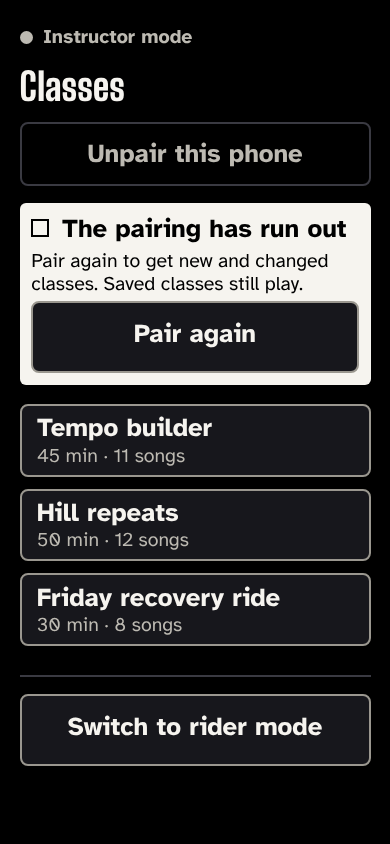
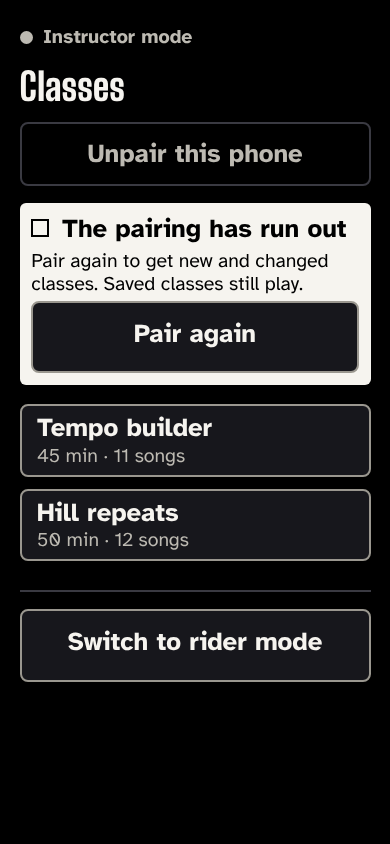
docs(design): fix the unpair key row and the expired mock-up at small sizes
Let the status row wrap in both orientations, show two classes in the expired mock-up so it fits at all six sizes, and correct the mock-up count.

Claude-Session: https://claude.ai/code/session_01LLHBh3xazuKpSV1STS2mcZ

Changed region(s): [[0.0308, 0.6777, 0.9538, 0.9242]]

diff --git a/docs/design/mockups/app-instructor-start-expired.html b/docs/design/mockups/app-instructor-start-expired.html
@@ -10,7 +10,7 @@
 <link rel="stylesheet" href="app.css">
 </head>
 <body class="app">
-<!-- State: the saved classes stay; the server said the token expired. The plate carries the words and "Pair again"; the status line is hidden. At 360x640 with three classes the page may scroll (A8).  Spec: docs/design/app-modes.md. Generated by app-pages.js: edit that, not this file. -->
-<main class="page"><div class="lead"><p class="mode"><span data-tier="label" data-lines="1">Instructor mode</span></p><h1><span data-tier="value" data-lines="2">Classes</span></h1><div class="status"><button class="key quiet" data-action="unpair"><span class="kl" data-tier="minor" data-lines="2">Unpair this phone</span></button></div><div class="plate" role="alert"><span data-tier="minor" data-lines="2" class="h">The pairing has run out</span><span data-tier="label" data-lines="4" class="dt">Pair again to get new and changed classes. Saved classes still play.</span><button class="key" data-action="pair_again"><span class="kl" data-tier="minor" data-lines="2">Pair again</span></button></div></div><div class="act"><div class="rows"><button class="key row" data-action="open_class"><span class="kl" data-tier="minor" data-lines="2">Tempo builder</span><span class="kh" data-tier="label">45 min · 11 songs</span></button><button class="key row" data-action="open_class"><span class="kl" data-tier="minor" data-lines="2">Hill repeats</span><span class="kh" data-tier="label">50 min · 12 songs</span></button><button class="key row" data-action="open_class"><span class="kl" data-tier="minor" data-lines="2">Friday recovery ride</span><span class="kh" data-tier="label">30 min · 8 songs</span></button></div><nav class="strip" aria-label="Mode"><button class="key full" data-action="switch_mode"><span class="kl" data-tier="minor" data-lines="2">Switch to rider mode</span></button></nav></div></main>
+<!-- State: the saved classes stay; the server said the token expired. The plate carries the words and "Pair again"; the status line is hidden. The mock-up shows two classes so that it fits at every size; with three classes at 360x640 the page scrolls (app-modes.md, A8 note).  Spec: docs/design/app-modes.md. Generated by app-pages.js: edit that, not this file. -->
+<main class="page"><div class="lead"><p class="mode"><span data-tier="label" data-lines="1">Instructor mode</span></p><h1><span data-tier="value" data-lines="2">Classes</span></h1><div class="status"><button class="key quiet" data-action="unpair"><span class="kl" data-tier="minor" data-lines="2">Unpair this phone</span></button></div><div class="plate" role="alert"><span data-tier="minor" data-lines="2" class="h">The pairing has run out</span><span data-tier="label" data-lines="4" class="dt">Pair again to get new and changed classes. Saved classes still play.</span><button class="key" data-action="pair_again"><span class="kl" data-tier="minor" data-lines="2">Pair again</span></button></div></div><div class="act"><div class="rows"><button class="key row" data-action="open_class"><span class="kl" data-tier="minor" data-lines="2">Tempo builder</span><span class="kh" data-tier="label">45 min · 11 songs</span></button><button class="key row" data-action="open_class"><span class="kl" data-tier="minor" data-lines="2">Hill repeats</span><span class="kh" data-tier="label">50 min · 12 songs</span></button></div><nav class="strip" aria-label="Mode"><button class="key full" data-action="switch_mode"><span class="kl" data-tier="minor" data-lines="2">Switch to rider mode</span></button></nav></div></main>
 </body>
 </html>

diff --git a/docs/design/mockups/app-pages.js b/docs/design/mockups/app-pages.js
@@ -54,10 +54,10 @@ add('instructor-start', 'app-modes.md', 'App: instructor mode', 'State: instruct
     `<div class="rows">${CLASSES.map(row).join('')}</div>` + strip('Switch to rider mode')));
 
 // The pairing ran out (class-list.md "Pairing ran out"): the plate stands in for the status line.
-add('instructor-start-expired', 'app-modes.md', 'App: instructor mode, pairing ran out', 'State: the saved classes stay; the server said the token expired. The plate carries the words and "Pair again"; the status line is hidden. At 360x640 with three classes the page may scroll (A8).',
+add('instructor-start-expired', 'app-modes.md', 'App: instructor mode, pairing ran out', 'State: the saved classes stay; the server said the token expired. The plate carries the words and "Pair again"; the status line is hidden. The mock-up shows two classes so that it fits at every size; with three classes at 360x640 the page scrolls (app-modes.md, A8 note).',
   page(mode('Instructor mode') + h1('Classes') + `<div class="status">${unpairKey}</div>`
     + plate('The pairing has run out', 'Pair again to get new and changed classes. Saved classes still play.').replace(/<\/div>$/, key('pair_again', 'Pair again') + '</div>'),
-    `<div class="rows">${CLASSES.map(row).join('')}</div>` + strip('Switch to rider mode')));
+    `<div class="rows">${CLASSES.slice(0, 2).map(row).join('')}</div>` + strip('Switch to rider mode')));
 
 add('to-rider-ask', 'app-modes.md', 'App: switch to rider mode?', 'State: "Switch to rider mode" pressed in instructor mode. Native question; "Stay" has the focus. Back or no answer is "Stay".',
   native(page(mode('Instructor mode') + h1('Switch to rider mode?') + p('The class list closes and the music is no longer followed. Coming back to instructor mode needs your screen lock.'),

diff --git a/docs/design/mockups/app.css b/docs/design/mockups/app.css
@@ -45,7 +45,10 @@
 /* "Unpair this phone": an outlined key, at least 64 px high, words at --c-minor. Upright it has its
    own full-width line; sideways it sits at the end of the status row. */
 .status .key.quiet { margin-left: auto; flex: none; width: auto; white-space: nowrap; min-height: 64px; padding: 0 1em; background: transparent; border-color: var(--stage-line); }
-@media (orientation: portrait) { .status { flex-wrap: wrap; } .status .key.quiet { flex: 1 0 100%; margin-left: 0; } }
+/* The row wraps in both orientations, so the status words never share a line with a key too wide for them. */
+.status { flex-wrap: wrap; }
+.status .ok { white-space: nowrap; }
+@media (orientation: portrait) { .status .key.quiet { flex: 1 0 100%; margin-left: 0; } }
 .status .key.quiet .kl { font-size: var(--c-minor); font-weight: 700; color: var(--light-2); }
 /* A status line in the minor tier (pair-done). */
 .status.m { font-size: var(--c-minor); }

diff --git a/docs/design/app-modes.md b/docs/design/app-modes.md
@@ -65,7 +65,7 @@ window with no scroll at 390x844, 844x390, 360x780, 360x640 and 640x360.
 
 **A8 note.** The instructor start page may scroll once the list outgrows the window. Up to date
 with three classes must fit at all six sizes. With the "Pair again" plate and three classes at
-360x640 the page runs 25 px over (strip key bottom 665, window 640) and scrolls; that is allowed.
+360x640 the page runs 25 px over (strip key bottom 665, window 640) and scrolls; that is allowed. The mock-up `app-instructor-start-expired` shows two classes so that it fits at all six sizes.
 
 Where the app starts: in the last mode used; on a first launch, in rider mode. A restart in rider
 mode never skips the screen lock. Instructor mode with a class open stays on the class; Back on the

diff --git a/docs/design/app.md b/docs/design/app.md
@@ -106,7 +106,7 @@ its floor there.
 
 ## Mock-ups
 
-`node docs/design/mockups/app-pages.js` writes the 30 `app-*.html` files; `ONLY='^app-' node
+`node docs/design/mockups/app-pages.js` writes the 35 `app-*.html` files; `ONLY='^app-' node
 docs/design/mockups/shoot.js` shoots and checks them. Each spec lists its own.
 
 ## What the app never shows or does (plan section 3)
